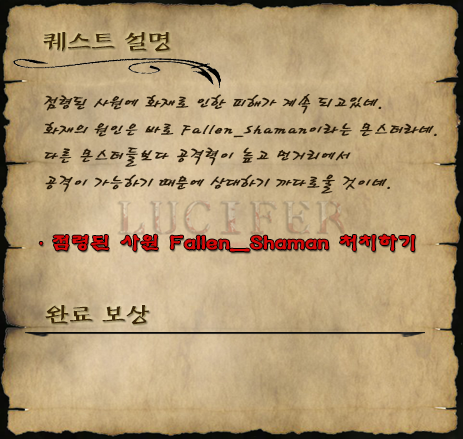
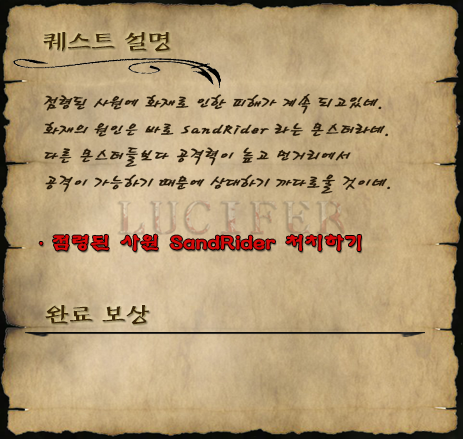
modify : Quest btntext position , Quest 8 , savebtn image change

Changed region(s): [[0.3931, 0.2665, 0.9374, 0.3257], [0.3629, 0.533, 0.9071, 0.5923]]

diff --git a/lucifer/lucifer/static/js/game/User_Interface/Quest.js b/lucifer/lucifer/static/js/game/User_Interface/Quest.js
@@ -491,7 +491,7 @@ function QuestUpdate(){
     btnText7.x = Math.floor(Questbtn_lv7.x - 200 + Questbtn_lv7.width / 2);
     btnText7.y = Math.floor(Questbtn_lv7.y - 18 + Questbtn_lv7.height / 2);
 
-    btnText8.x = Math.floor(Questbtn_lv8.x - 167 + Questbtn_lv8.width / 2);
+    btnText8.x = Math.floor(Questbtn_lv8.x - 186 + Questbtn_lv8.width / 2);
     btnText8.y = Math.floor(Questbtn_lv8.y - 18 + Questbtn_lv8.height / 2);
 
     btnText9.x = Math.floor(Questbtn_lv9.x - 194 + Questbtn_lv9.width / 2);

diff --git a/lucifer/lucifer/static/js/game/User_Interface/UserInterface.js b/lucifer/lucifer/static/js/game/User_Interface/UserInterface.js
@@ -87,7 +87,7 @@ function ui_Create()
     UI_ExperienceBar.visible = false;
 
     //Save btn
-    Save_btn = Lucifer_Game.add.button(UI_UnderBar.x + 156, UI_UnderBar.y + 4, 'saveBtn', saveBtn, this, 1, 0);
+    Save_btn = Lucifer_Game.add.button(UI_UnderBar.x + 156, UI_UnderBar.y + 4, 'saveBtn', saveBtn, this, 1, 0, 2);
     Save_btn.fixedToCamera = true;
     Save_btn.onInputUp.add(saveBtn, this);
     Save_btn.visible = true;
